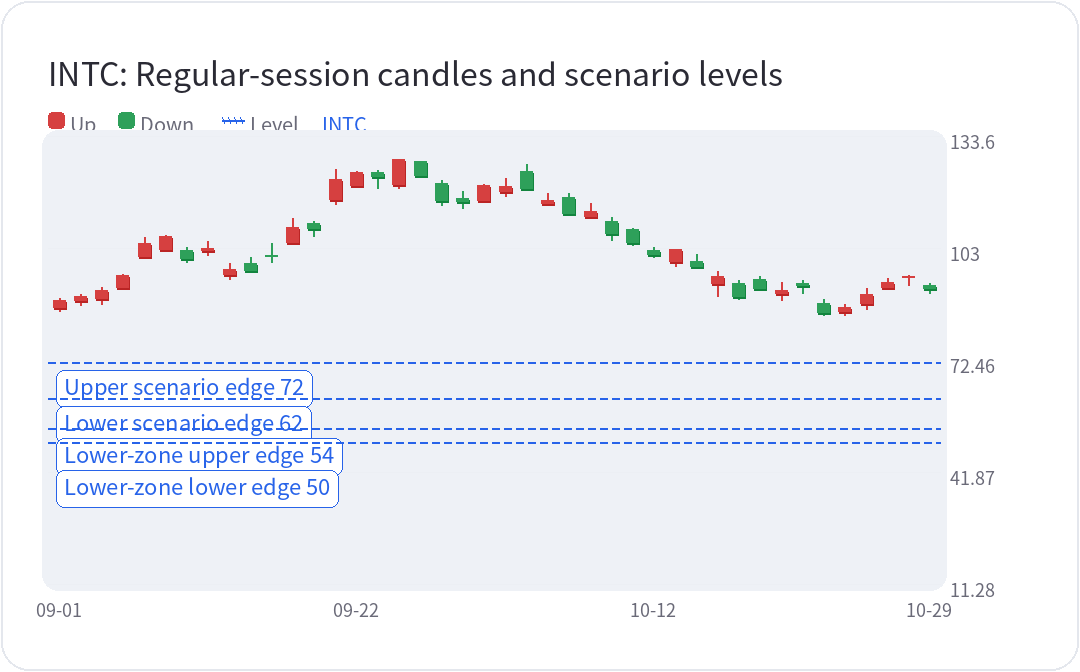
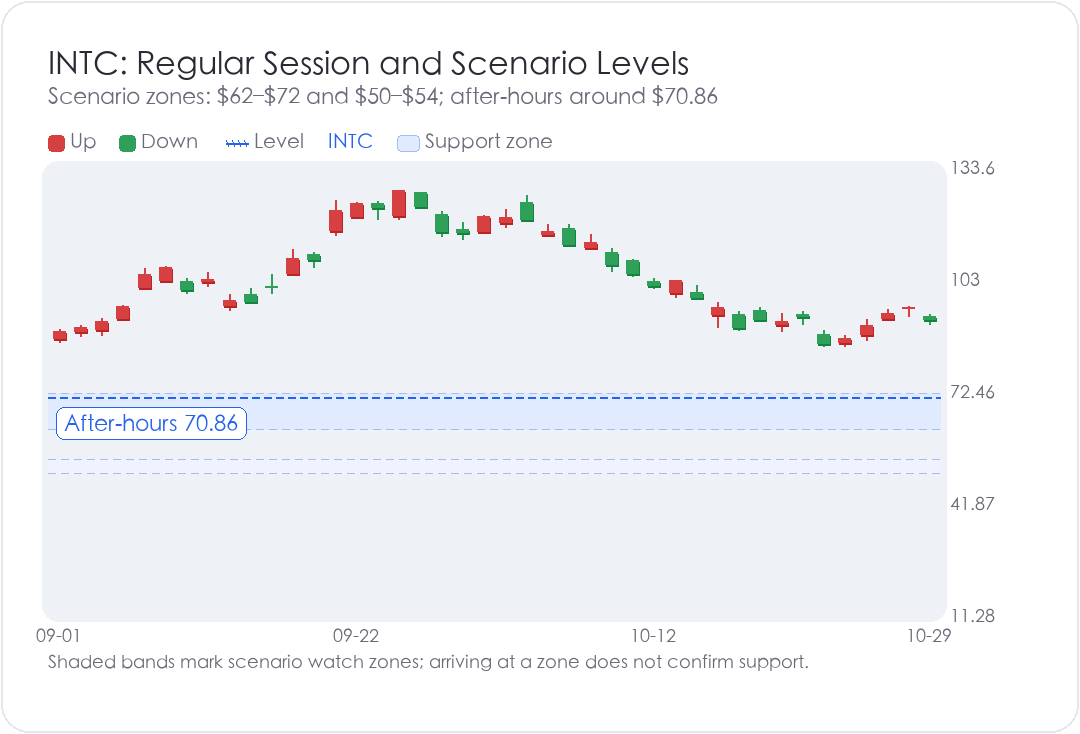
美股日报：修复英特尔K线情景观察区图表显示与图例遮挡 (#225)

diff --git a/archive/2026-10-29-704381.md b/archive/2026-10-29-704381.md
@@ -19,7 +19,7 @@
 正常交易收于92.07美元，标准盘后时段末约70.86美元。跌掉这么多以后，价格是否便宜，仍要看后续能赚多少钱。62至72美元可作为第一层情景观察区，失守后再看50至54美元；这些是估值与交易假设，尚未证明能托住价格。PC和下一季指引没有改善前，仓位更适合按波段风险管理，参与急跌后的反弹，也得先想清楚什么情况下退出。
 
 ```chart
-{"id":"intc-scenario","kind":"kline","title":"INTC：正常交易日K与情景价位","ticker":"INTC","candles":[{"date":"2026-09-01","open":86.84,"high":89.41,"low":85.72,"close":88.97},{"date":"2026-09-02","open":88.85,"high":90.43,"low":87.5,"close":90.05},{"date":"2026-09-03","open":89.35,"high":92.37,"low":87.725,"close":91.67},{"date":"2026-09-04","open":92.45,"high":95.94,"low":91.87,"close":95.8},{"date":"2026-09-08","open":100.8,"high":106.09,"low":100.35,"close":104.47},{"date":"2026-09-09","open":102.7,"high":106.69,"low":102.7,"close":106.24},{"date":"2026-09-10","open":102.45,"high":103.23,"low":99.34,"close":100.32},{"date":"2026-09-11","open":102.47,"high":104.9,"low":101.07,"close":102.94},{"date":"2026-09-14","open":95.82,"high":98.86,"low":94.523,"close":97.19},{"date":"2026-09-15","open":98.83,"high":100.48,"low":96.521,"close":97.14},{"date":"2026-09-16","open":101.365,"high":104.42,"low":99.29,"close":101.05},{"date":"2026-09-17","open":104.7,"high":111.37,"low":104.7,"close":108.8},{"date":"2026-09-18","open":109.795,"high":110.49,"low":106.4,"close":108.6},{"date":"2026-09-21","open":116.53,"high":124.727,"low":114.93,"close":121.78},{"date":"2026-09-22","open":120.15,"high":124.09,"low":120.075,"close":123.86},{"date":"2026-09-23","open":123.865,"high":124.25,"low":119.44,"close":122.6},{"date":"2026-09-24","open":120.61,"high":127.44,"low":119.55,"close":127.39},{"date":"2026-09-25","open":126.83,"high":126.93,"low":122.84,"close":123.0},{"date":"2026-09-28","open":120.675,"high":121.71,"low":114.705,"close":116.03},{"date":"2026-09-29","open":116.7,"high":118.75,"low":113.97,"close":115.93},{"date":"2026-09-30","open":116.22,"high":120.55,"low":115.995,"close":120.23},{"date":"2026-10-01","open":118.73,"high":122.15,"low":117.35,"close":120.0},{"date":"2026-10-02","open":124.005,"high":126.0,"low":118.96,"close":119.33},{"date":"2026-10-05","open":115.335,"high":118.058,"low":115.31,"close":116.19},{"date":"2026-10-06","open":117.06,"high":118.2,"low":112.0,"close":112.5},{"date":"2026-10-07","open":111.67,"high":115.3,"low":111.14,"close":113.12},{"date":"2026-10-08","open":110.38,"high":111.6,"low":105.24,"close":107.08},{"date":"2026-10-09","open":108.325,"high":108.38,"low":104.0,"close":104.7},{"date":"2026-10-12","open":102.515,"high":103.19,"low":100.71,"close":101.35},{"date":"2026-10-13","open":99.59,"high":102.88,"low":98.225,"close":102.81},{"date":"2026-10-14","open":99.535,"high":101.34,"low":97.665,"close":98.12},{"date":"2026-10-15","open":93.61,"high":96.87,"low":90.02,"close":95.37},{"date":"2026-10-16","open":93.48,"high":94.22,"low":89.19,"close":89.85},{"date":"2026-10-19","open":94.527,"high":95.39,"low":91.88,"close":92.03},{"date":"2026-10-20","open":90.73,"high":93.73,"low":88.77,"close":91.69},{"date":"2026-10-21","open":93.425,"high":94.394,"low":90.75,"close":92.96},{"date":"2026-10-22","open":87.92,"high":89.185,"low":84.645,"close":85.49},{"date":"2026-10-23","open":85.915,"high":87.865,"low":84.74,"close":86.96},{"date":"2026-10-26","open":87.935,"high":92.087,"low":86.46,"close":90.47},{"date":"2026-10-27","open":92.465,"high":94.98,"low":91.86,"close":93.74},{"date":"2026-10-28","open":95.085,"high":95.68,"low":93.0,"close":95.53},{"date":"2026-10-29","open":92.965,"high":93.5,"low":90.838,"close":92.07}],"levels":[{"label":"情景区上沿","price":72},{"label":"情景区下沿","price":62},{"label":"下方情景上沿","price":54},{"label":"下方情景下沿","price":50}]}
+{"id":"intc-scenario","kind":"kline","title":"INTC：正常交易日K与情景价位","subtitle":"观察区：62–72美元、50–54美元；盘后约70.86美元","ticker":"INTC","candles":[{"date":"2026-09-01","open":86.84,"high":89.41,"low":85.72,"close":88.97},{"date":"2026-09-02","open":88.85,"high":90.43,"low":87.5,"close":90.05},{"date":"2026-09-03","open":89.35,"high":92.37,"low":87.725,"close":91.67},{"date":"2026-09-04","open":92.45,"high":95.94,"low":91.87,"close":95.8},{"date":"2026-09-08","open":100.8,"high":106.09,"low":100.35,"close":104.47},{"date":"2026-09-09","open":102.7,"high":106.69,"low":102.7,"close":106.24},{"date":"2026-09-10","open":102.45,"high":103.23,"low":99.34,"close":100.32},{"date":"2026-09-11","open":102.47,"high":104.9,"low":101.07,"close":102.94},{"date":"2026-09-14","open":95.82,"high":98.86,"low":94.523,"close":97.19},{"date":"2026-09-15","open":98.83,"high":100.48,"low":96.521,"close":97.14},{"date":"2026-09-16","open":101.365,"high":104.42,"low":99.29,"close":101.05},{"date":"2026-09-17","open":104.7,"high":111.37,"low":104.7,"close":108.8},{"date":"2026-09-18","open":109.795,"high":110.49,"low":106.4,"close":108.6},{"date":"2026-09-21","open":116.53,"high":124.727,"low":114.93,"close":121.78},{"date":"2026-09-22","open":120.15,"high":124.09,"low":120.075,"close":123.86},{"date":"2026-09-23","open":123.865,"high":124.25,"low":119.44,"close":122.6},{"date":"2026-09-24","open":120.61,"high":127.44,"low":119.55,"close":127.39},{"date":"2026-09-25","open":126.83,"high":126.93,"low":122.84,"close":123.0},{"date":"2026-09-28","open":120.675,"high":121.71,"low":114.705,"close":116.03},{"date":"2026-09-29","open":116.7,"high":118.75,"low":113.97,"close":115.93},{"date":"2026-09-30","open":116.22,"high":120.55,"low":115.995,"close":120.23},{"date":"2026-10-01","open":118.73,"high":122.15,"low":117.35,"close":120.0},{"date":"2026-10-02","open":124.005,"high":126.0,"low":118.96,"close":119.33},{"date":"2026-10-05","open":115.335,"high":118.058,"low":115.31,"close":116.19},{"date":"2026-10-06","open":117.06,"high":118.2,"low":112.0,"close":112.5},{"date":"2026-10-07","open":111.67,"high":115.3,"low":111.14,"close":113.12},{"date":"2026-10-08","open":110.38,"high":111.6,"low":105.24,"close":107.08},{"date":"2026-10-09","open":108.325,"high":108.38,"low":104.0,"close":104.7},{"date":"2026-10-12","open":102.515,"high":103.19,"low":100.71,"close":101.35},{"date":"2026-10-13","open":99.59,"high":102.88,"low":98.225,"close":102.81},{"date":"2026-10-14","open":99.535,"high":101.34,"low":97.665,"close":98.12},{"date":"2026-10-15","open":93.61,"high":96.87,"low":90.02,"close":95.37},{"date":"2026-10-16","open":93.48,"high":94.22,"low":89.19,"close":89.85},{"date":"2026-10-19","open":94.527,"high":95.39,"low":91.88,"close":92.03},{"date":"2026-10-20","open":90.73,"high":93.73,"low":88.77,"close":91.69},{"date":"2026-10-21","open":93.425,"high":94.394,"low":90.75,"close":92.96},{"date":"2026-10-22","open":87.92,"high":89.185,"low":84.645,"close":85.49},{"date":"2026-10-23","open":85.915,"high":87.865,"low":84.74,"close":86.96},{"date":"2026-10-26","open":87.935,"high":92.087,"low":86.46,"close":90.47},{"date":"2026-10-27","open":92.465,"high":94.98,"low":91.86,"close":93.74},{"date":"2026-10-28","open":95.085,"high":95.68,"low":93.0,"close":95.53},{"date":"2026-10-29","open":92.965,"high":93.5,"low":90.838,"close":92.07}],"levels":[{"label":"盘后参考","price":70.86}],"zones":[{"label":"第一层情景区","low":62,"high":72},{"label":"下方情景区","low":50,"high":54}],"caption":"浅蓝色带标示估值与交易情景观察区；触及不代表企稳托住。"}
 ```
 
 ## 2 亚马逊：云很强，零售与广告没跟上
